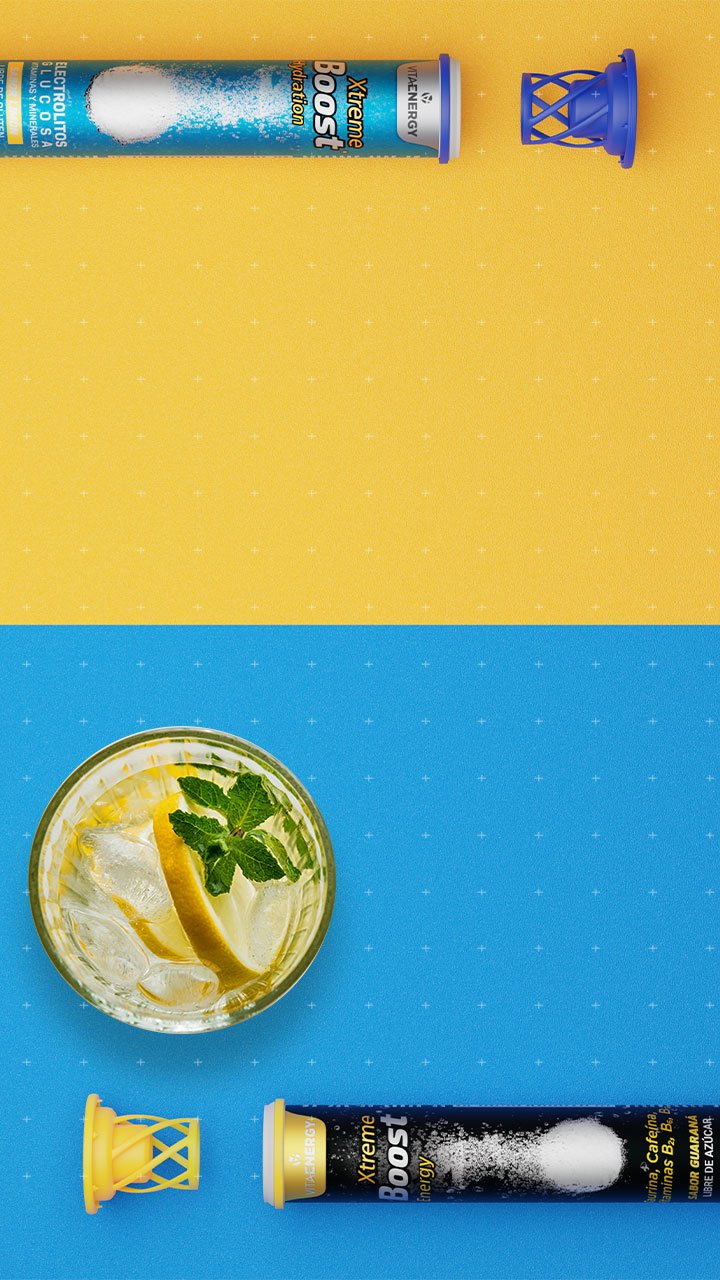
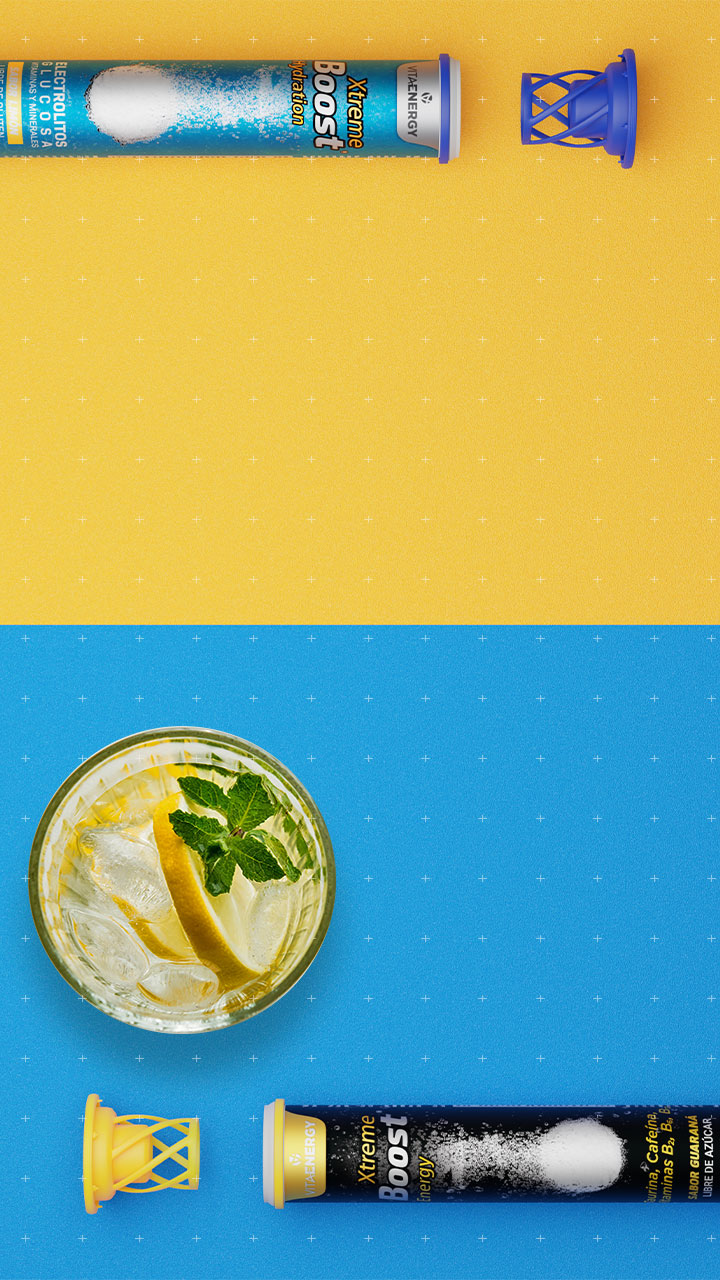
flex fix

diff --git a/assets/css/main.css b/assets/css/main.css
@@ -387,6 +387,7 @@ video {
  .tablets {
    position: relative;
    display: flex;
+   flex-direction: column;
  }
 
  .tablets_bkg {
@@ -421,6 +422,7 @@ video {
  .sharing {
    position: relative;
    display: flex;
+   flex-direction: column;
  }
 
  .share_bkg {
